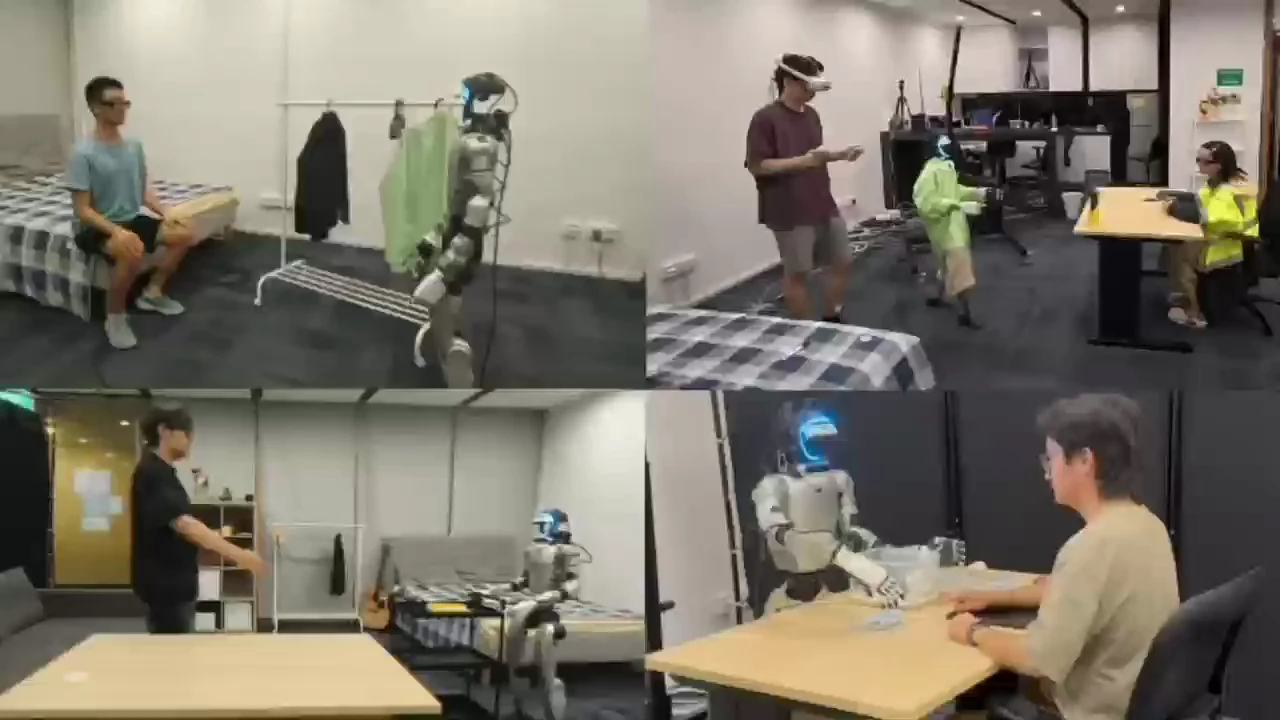
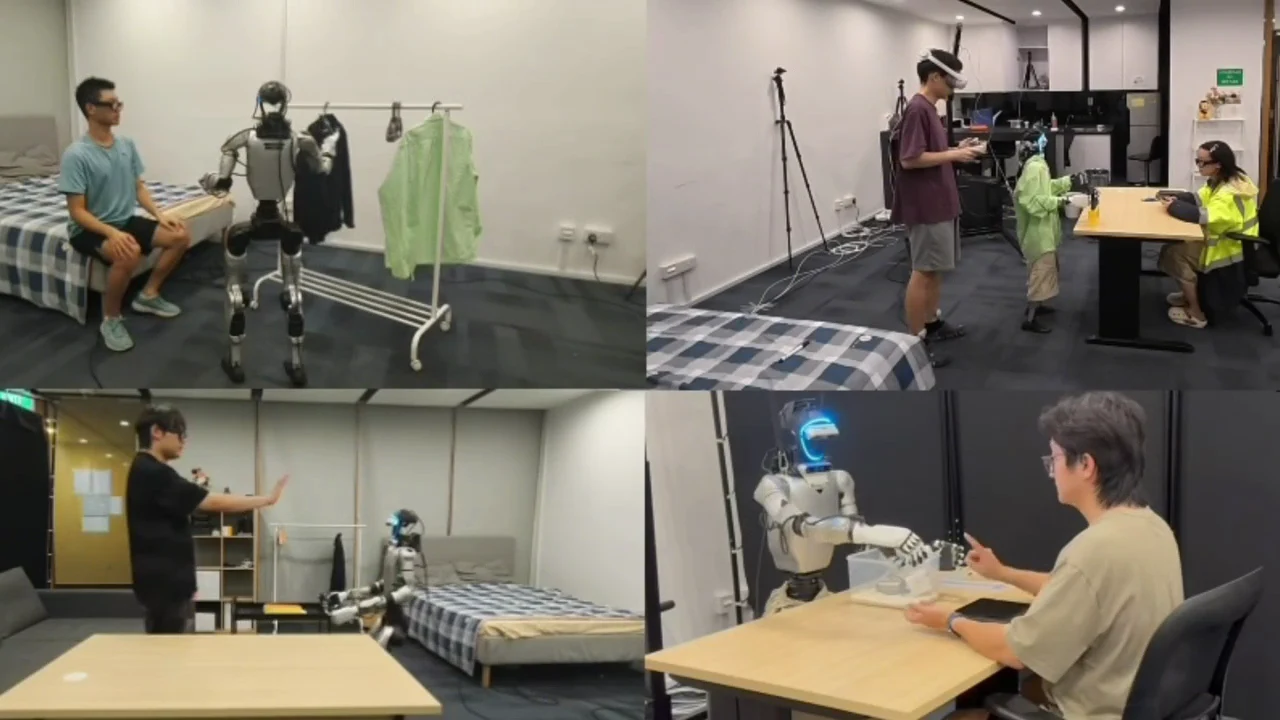
Loop the homepage video from five seconds without player controls

diff --git a/src/components/Primitives.tsx b/src/components/Primitives.tsx
@@ -9,7 +9,7 @@ export function SectionLabel({ number, children }: { number: string; children: R
 }
 declare const __ROOM_VIDEO_FILES__: string[];
 const videoFiles = __ROOM_VIDEO_FILES__;
-export function ResearchMedia({ name, poster, alt, className = '', eager = false }: { name: string; poster: string; alt: string; className?: string; eager?: boolean }) {
+export function ResearchMedia({ name, poster, alt, className = '', eager = false, startAt = 0, controls = true }: { name: string; poster: string; alt: string; className?: string; eager?: boolean; startAt?: number; controls?: boolean }) {
   const [failed, setFailed] = useState(false);
   const [autoplay, setAutoplay] = useState(false);
   const videoRef = useRef<HTMLVideoElement>(null);
@@ -19,15 +19,36 @@ export function ResearchMedia({ name, poster, alt, className = '', eager = false
     if (!video) return;
     const preference = window.matchMedia('(prefers-reduced-motion: reduce)');
     let visible = false;
+    let positioned = startAt <= 0;
+    const loopStart = () => Math.min(Math.max(0, startAt), Math.max(0, video.duration - 0.05));
     const update = () => {
-      const play = visible && !preference.matches;
+      const play = visible && positioned && !preference.matches;
       setAutoplay(play);
       if (play) { video.muted = true; void video.play().catch(() => {}); } else video.pause();
     };
+    const position = () => {
+      if (!Number.isFinite(video.duration)) return;
+      if (!positioned) { video.currentTime = loopStart(); positioned = true; }
+      update();
+    };
+    const restart = () => {
+      if (startAt <= 0) return;
+      video.currentTime = loopStart();
+      // If a reduced-motion visitor started playback manually, preserve their choice to loop.
+      if (visible) void video.play().catch(() => {});
+    };
+    video.addEventListener('loadedmetadata', position);
+    video.addEventListener('ended', restart);
+    if (video.readyState >= 1) position();
     const observer = new IntersectionObserver(entries => { visible = entries[0].isIntersecting; update(); }, { threshold: 0.2 });
     observer.observe(video); preference.addEventListener('change', update);
-    return () => { observer.disconnect(); preference.removeEventListener('change',update); };
-  }, [available, failed]);
-  if (available && !failed) return <video ref={videoRef} className={className} src={asset(available.replace('/public/', ''))} poster={asset(poster)} autoPlay={autoplay} muted loop playsInline controls aria-label={alt} preload={eager ? 'auto' : 'metadata'} onError={() => setFailed(true)} />;
+    return () => {
+      observer.disconnect();
+      preference.removeEventListener('change', update);
+      video.removeEventListener('loadedmetadata', position);
+      video.removeEventListener('ended', restart);
+    };
+  }, [available, failed, startAt]);
+  if (available && !failed) return <video ref={videoRef} className={className} src={asset(available.replace('/public/', ''))} poster={asset(poster)} autoPlay={autoplay} muted loop={startAt <= 0} data-loop-start={startAt} playsInline controls={controls} aria-label={alt} preload={eager ? 'auto' : 'metadata'} onError={() => setFailed(true)} />;
   return <img className={className} src={asset(poster)} alt={alt} loading={eager ? 'eager' : 'lazy'} fetchPriority={eager ? 'high' : 'auto'} decoding="async" />;
 }

diff --git a/src/sections/HeroV3.tsx b/src/sections/HeroV3.tsx
@@ -6,7 +6,7 @@ export default function HeroV3() {
   return <>
     <section className="hero-v3 home-hero" id="overview" data-design-version="3" data-theme="home" data-layout="immersive">
       <figure className="home-scene home-scene--video">
-        <ResearchMedia name={project.media.hero} poster="assets/hero-video-poster.webp" alt="A montage of ROOM household demonstrations showing people and a humanoid coordinating through gestures and everyday actions." eager />
+        <ResearchMedia name={project.media.hero} poster="assets/hero-video-poster.webp" alt="A montage of ROOM household demonstrations showing people and a humanoid coordinating through gestures and everyday actions." eager startAt={5} controls={false} />
       </figure>
       <div className="home-shade" aria-hidden="true" />
       <div className="home-heading">

diff --git a/README.md b/README.md
@@ -53,7 +53,7 @@ The manuscript is not shared in this preview: `project.links.paper` is null, and
 
 ## Assets and videos
 
-The homepage now plays the supplied 15-second, 1280 × 720 H.264 video at `public/videos/hero.mp4`. It is muted, loops automatically while visible, and keeps native pause/fullscreen controls. The video fills the first viewport edge to edge, with ROOM and navigation overlaid. Cover sizing adapts to the screen; portrait and very wide screens crop the sides or top/bottom. Native fullscreen playback remains available for the complete composition. Its poster is the first frame of that same video. Video requests, including byte ranges for playback and seeking, remain password protected. The original uploaded file remains untouched in the workspace.
+The homepage now plays the supplied 15-second, 1280 × 720 H.264 video at `public/videos/hero.mp4`. It is muted, begins at second 5, loops the 5–15 second segment while visible, and hides native playback controls as requested. The video fills the first viewport edge to edge, with ROOM and navigation overlaid. Cover sizing adapts to the screen; portrait and very wide screens crop the sides or top/bottom. The homepage has no progress bar or player buttons. Its poster is extracted at second 5 of that same video. Video requests, including byte ranges for playback and seeking, remain password protected. The original uploaded file remains untouched in the workspace.
 
 - `public/assets/`: optimized WebP crops extracted from the PDF; no generated or unrelated robotics imagery.
 - `public/fonts/`: self-hosted DM Sans and IBM Plex Mono plus their OFL licenses.
@@ -68,7 +68,7 @@ The homepage now plays the supplied 15-second, 1280 × 720 H.264 video at `publi
 | Collaborative Cart Delivery | `collaborative-cart-delivery.mp4` or `.webm` |
 | Action Correction | `action-correction.mp4` or `.webm` |
 
-Vite discovers these files automatically on start/build; WebM is preferred if both exist. No JSX edits are needed. Restart the dev server if adding a new filename does not trigger a refresh. Videos play muted, inline, and loop when in view; reduced-motion users get manual playback. A decoding/load error falls back to the paper image. There are no video requests when no matching files exist. Use short, compressed clips; keep native controls accessible and avoid baking text labels into clips.
+Vite discovers these files automatically on start/build; WebM is preferred if both exist. No JSX edits are needed. Restart the dev server if adding a new filename does not trigger a refresh. Videos play muted, inline, and loop when in view; reduced-motion users get a still poster on the homepage and manual playback for other media. A decoding/load error falls back to the paper image. There are no video requests when no matching files exist. Use short, compressed clips; keep native controls accessible and avoid baking text labels into clips.
 
 ## Structure
 

diff --git a/DESIGN_NOTES.md b/DESIGN_NOTES.md
@@ -1,5 +1,9 @@
 # ROOM — design and research notes
 
+## Playback interval
+
+The homepage begins at 5 seconds and loops from the end back to 5 seconds. Native controls are hidden per the user’s follow-up, so no progress bar or player buttons appear. Reduced-motion visitors see the poster instead of automatic motion. The original 15-second file is unchanged; the player seeks after metadata is available and uses an ended handler for the offset loop. Other optional videos retain their native full-length looping. The homepage poster is a frame from second 5 to match the new opening.
+
 ## Immersive opening
 
 The user requested video that fills the screen instead of an inset media frame. The opening is now one viewport high with edge-to-edge cover video, no gutters or rounded border, transparent navigation at the top, and warm cream ROOM typography over a subtle brown gradient. The signal strip and research page start below the video. Portrait screens use a cover crop; native fullscreen controls remain available to view the source composition. Autoplay, mute, looping, reduced-motion support and password gating are retained.
